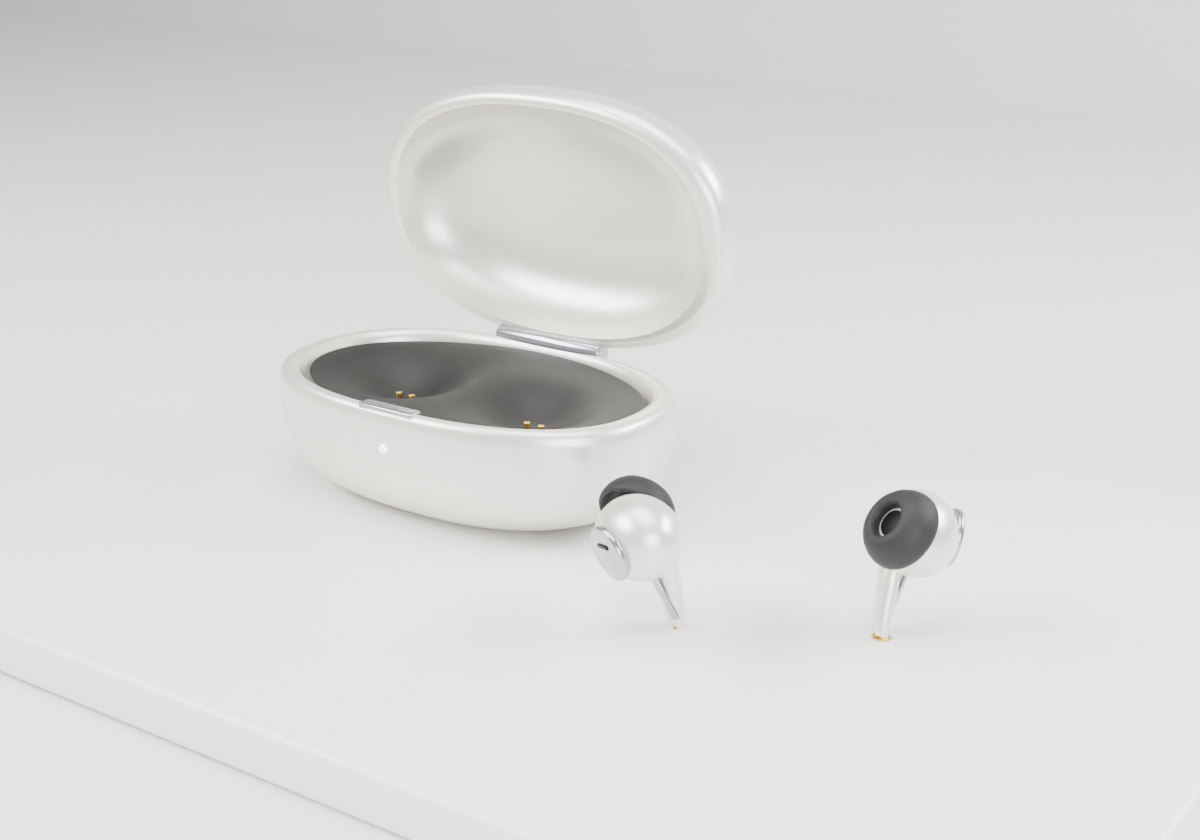
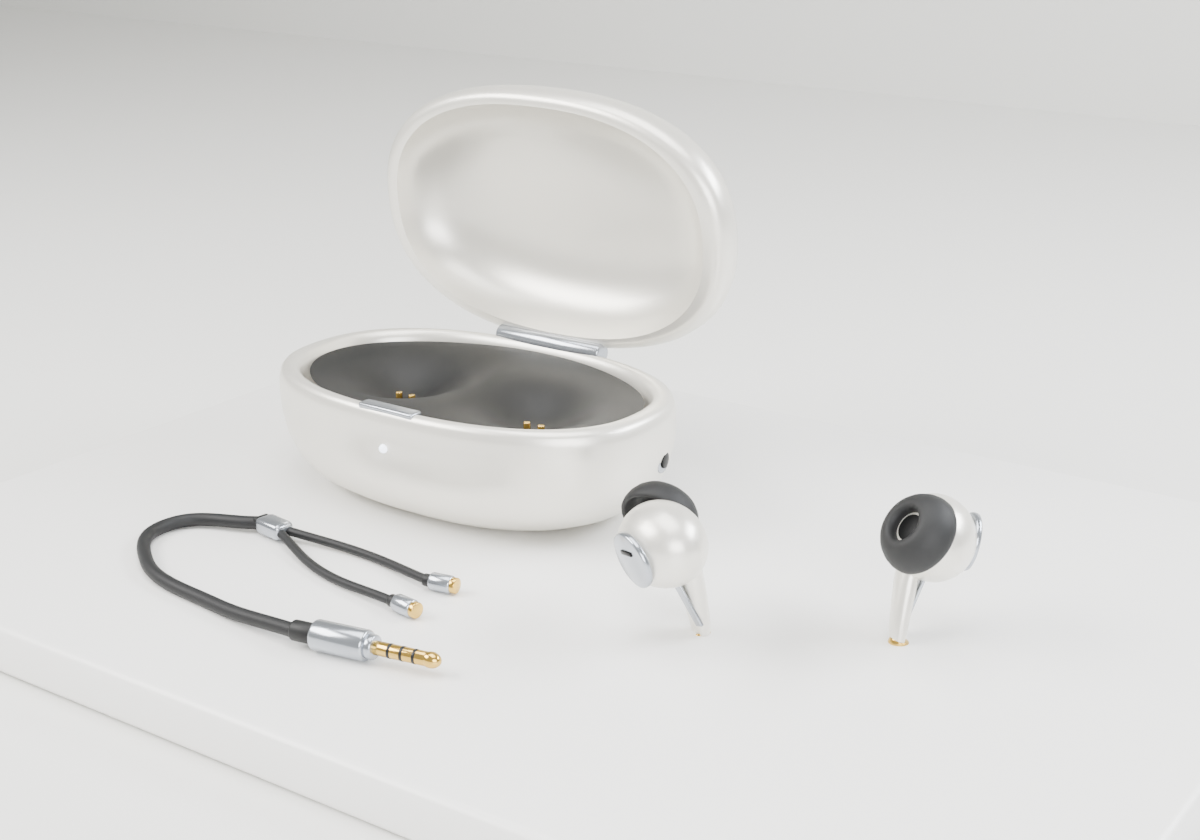
Add wired + wireless AUX support and 3.5 mm AUX cable Blender renders to JBG Tone.
Generated with [Devin](https://devin.ai)

diff --git a/purchase.html b/purchase.html
@@ -94,7 +94,7 @@
             <img class="model-thumb" src="assets/jbg-tone-midnight.png" alt="JBG Tone">
             <span class="model-card-text">
               <span class="model-card-name">JBG Tone</span>
-              <span class="model-card-sub">Premium ANC Earphones</span>
+              <span class="model-card-sub">Wired &amp; Wireless ANC Earphones</span>
               <span class="model-card-price">From US$299</span>
             </span>
           </button>
@@ -220,7 +220,7 @@
 </div>
 <script>
   (function () {
-    var MODELS = {"air": {"name": "JBG Air", "sub": "Professional Mobility", "base": 1999, "spec": "air-specifications.html", "storage": true, "rec": "512 GB", "box": [], "colours": [["Midnight", "#2A2F38", "assets/jbg-air-midnight.png"], ["Starlight", "#D8CFBF", "assets/jbg-air-starlight.png"], ["Silver", "#D4D6D9", "assets/jbg-air-silver.png"], ["Sky Blue", "#A9BFD3", "assets/jbg-air-skyblue.png"]]}, "pro": {"name": "JBG Pro", "sub": "Professional Performance", "base": 2499, "spec": "pro-specifications.html", "storage": true, "rec": "1 TB", "box": [], "colours": [["Space Black", "#333538", "assets/jbg-pro-spaceblack.png"], ["Silver", "#D4D6D9", "assets/jbg-pro-silver.png"], ["Natural Titanium", "#989086", "assets/jbg-pro-naturaltitanium.png"]]}, "play": {"name": "JBG Play", "sub": "Portable Handheld Gaming", "base": 2199, "spec": "play-specifications.html", "storage": true, "rec": "512 GB", "box": [], "colours": [["Midnight", "#2A2F38", "assets/jbg-play-midnight.png"], ["Ultramarine", "#44547E", "assets/jbg-play-ultramarine.png"], ["Crimson", "#8E2430", "assets/jbg-play-crimson.png"]]}, "tone": {"name": "JBG Tone", "sub": "Premium ANC Earphones", "base": 299, "spec": "tone-specifications.html", "storage": false, "rec": "512 GB", "box": [["JBG Tone", "Earphones pair"], ["Charging Case", "Wireless + USB-C"], ["Ear Tips", "3 acoustic sizes"], ["USB-C Cable", "Braided charging"]], "colours": [["Midnight", "#2A2F38", "assets/jbg-tone-midnight.png"], ["Ivory", "#E9E6DD", "assets/jbg-tone-ivory.png"], ["Titanium", "#8A8D92", "assets/jbg-tone-titanium.png"]]}, "feather": {"name": "JBG Feather", "sub": "Ultralight Wireless Mouse", "base": 149, "spec": "feather-specifications.html", "storage": false, "rec": "512 GB", "box": [["JBG Feather", "Ultralight mouse"], ["2.4G Receiver", "8K wireless dongle"], ["USB-C Paracord", "Charge + wired"], ["Travel Pouch", "Protective sleeve"]], "colours": [["Midnight", "#2A2F38", "assets/jbg-feather-midnight.png"], ["Arctic White", "#ECEEF0", "assets/jbg-feather-arcticwhite.png"]]}, "vista": {"name": "JBG Vista", "sub": "Portable 16-inch Display", "base": 449, "spec": "vista-specifications.html", "storage": false, "rec": "512 GB", "box": [["JBG Vista", "16-inch 2.5K display"], ["Protective Case", "Magnetic stand folio"], ["USB-C Cable", "Video + PD power"], ["Mini-HDMI", "Display cable"]], "colours": [["Space Gray", "#6E6F74", "assets/jbg-vista-spacegray.png"], ["Silver", "#D4D6D9", "assets/jbg-vista-silver.png"]]}};
+    var MODELS = {"air": {"name": "JBG Air", "sub": "Professional Mobility", "base": 1999, "spec": "air-specifications.html", "storage": true, "rec": "512 GB", "box": [], "colours": [["Midnight", "#2A2F38", "assets/jbg-air-midnight.png"], ["Starlight", "#D8CFBF", "assets/jbg-air-starlight.png"], ["Silver", "#D4D6D9", "assets/jbg-air-silver.png"], ["Sky Blue", "#A9BFD3", "assets/jbg-air-skyblue.png"]]}, "pro": {"name": "JBG Pro", "sub": "Professional Performance", "base": 2499, "spec": "pro-specifications.html", "storage": true, "rec": "1 TB", "box": [], "colours": [["Space Black", "#333538", "assets/jbg-pro-spaceblack.png"], ["Silver", "#D4D6D9", "assets/jbg-pro-silver.png"], ["Natural Titanium", "#989086", "assets/jbg-pro-naturaltitanium.png"]]}, "play": {"name": "JBG Play", "sub": "Portable Handheld Gaming", "base": 2199, "spec": "play-specifications.html", "storage": true, "rec": "512 GB", "box": [], "colours": [["Midnight", "#2A2F38", "assets/jbg-play-midnight.png"], ["Ultramarine", "#44547E", "assets/jbg-play-ultramarine.png"], ["Crimson", "#8E2430", "assets/jbg-play-crimson.png"]]}, "tone": {"name": "JBG Tone", "sub": "Wired & Wireless ANC Earphones", "base": 299, "spec": "tone-specifications.html", "storage": false, "rec": "512 GB", "box": [["JBG Tone", "Earphones pair"], ["Charging Case", "Wireless + AUX + USB-C"], ["3.5 mm AUX Wire", "Included wired cable"], ["Ear Tips + USB-C", "3 sizes + charge lead"]], "colours": [["Midnight", "#2A2F38", "assets/jbg-tone-midnight.png"], ["Ivory", "#E9E6DD", "assets/jbg-tone-ivory.png"], ["Titanium", "#8A8D92", "assets/jbg-tone-titanium.png"]]}, "feather": {"name": "JBG Feather", "sub": "Ultralight Wireless Mouse", "base": 149, "spec": "feather-specifications.html", "storage": false, "rec": "512 GB", "box": [["JBG Feather", "Ultralight mouse"], ["2.4G Receiver", "8K wireless dongle"], ["USB-C Paracord", "Charge + wired"], ["Travel Pouch", "Protective sleeve"]], "colours": [["Midnight", "#2A2F38", "assets/jbg-feather-midnight.png"], ["Arctic White", "#ECEEF0", "assets/jbg-feather-arcticwhite.png"]]}, "vista": {"name": "JBG Vista", "sub": "Portable 16-inch Display", "base": 449, "spec": "vista-specifications.html", "storage": false, "rec": "512 GB", "box": [["JBG Vista", "16-inch 2.5K display"], ["Protective Case", "Magnetic stand folio"], ["USB-C Cable", "Video + PD power"], ["Mini-HDMI", "Display cable"]], "colours": [["Space Gray", "#6E6F74", "assets/jbg-vista-spacegray.png"], ["Silver", "#D4D6D9", "assets/jbg-vista-silver.png"]]}};
     var STORAGE = [["256 GB", 0, "Included"], ["512 GB", 80, "+US$80"], ["1 TB", 180, "+US$180"], ["2 TB", 380, "+US$380"]];
     var state = { model: 'air', finish: 0, cap: '512 GB' };
     var q = location.search.match(/model=([a-z]+)/i);

diff --git a/tone-specifications.html b/tone-specifications.html
@@ -57,9 +57,9 @@
         </div>
         <div class="hero-grid">
           <div>
-            <span class="eyebrow">Premium ANC Earphones</span>
+            <span class="eyebrow">Wired &amp; Wireless ANC Earphones</span>
             <h1 class="hero-title" style="font-size: clamp(2.4rem, 4.2vw, 3.5rem); margin-bottom: 14px;">JBG Tone</h1>
-            <p class="hero-desc" style="margin-bottom: 20px;">Up to 99% ambient noise reduction — silence, engineered.</p>
+            <p class="hero-desc" style="margin-bottom: 20px;">Up to 99% ambient noise reduction — wireless freedom or zero-latency wired AUX.</p>
             <p style="font-family: var(--font-mono); font-size: 1.05rem; font-weight: 600; margin: 0 0 28px;">
               From US$299 <span style="font-weight: 400; font-size: 0.82rem; color: var(--text-muted);">(Proposed USD Retail)</span>
             </p>
@@ -71,7 +71,7 @@
           <div class="hero-visual-frame" style="background:#ecece7;border-color:#dcdcd6;">
             <img id="productHeroImg" src="assets/jbg-tone-midnight.png" alt="JBG Tone studio industrial design render">
             <div class="visual-caption" style="background:#f7f7f4;color:#4e525a;border-top-color:#dcdcd6;">
-              <span>JBG TONE — TITANIUM &amp; MATTE OBSIDIAN ACOUSTIC CONCEPT</span>
+              <span>JBG TONE — WIRED 3.5 MM AUX + WIRELESS ANC CONCEPT</span>
               <span>PROPOSED TARGET</span>
             </div>
           </div>
@@ -92,12 +92,12 @@
             <span class="stat-label">BATTERY TARGET</span>
           </div>
           <div class="stat-card">
-            <span class="stat-value">IPX5</span>
-            <span class="stat-label">RATING</span>
+            <span class="stat-value">AUX + BT</span>
+            <span class="stat-label">DUAL MODE</span>
           </div>
           <div class="stat-card">
-            <span class="stat-value">BT 5.4</span>
-            <span class="stat-label">CONNECTIVITY</span>
+            <span class="stat-value">IPX5</span>
+            <span class="stat-label">RATING</span>
           </div>
         </div>
       </div>
@@ -126,11 +126,15 @@
               </tr>
               <tr>
                 <th scope="row">Charging</th>
-                <td>USB-C fast charge &amp; Qi wireless charging pebble case</td>
+                <td>USB-C fast charge &amp; Qi wireless charging pebble case with 3.5 mm AUX pass-through</td>
               </tr>
               <tr>
                 <th scope="row">Connectivity</th>
-                <td>Bluetooth 5.4 multipoint with LE Audio support</td>
+                <td>Dual-mode wired &amp; wireless — Bluetooth 5.4 multipoint (LE Audio) + included braided 3.5 mm AUX cable</td>
+              </tr>
+              <tr>
+                <th scope="row">Wired Audio Mode</th>
+                <td>Detachable 3.5 mm TRRS AUX wire with magnetic stem docks for lossless, zero-latency laptop, flight, and handheld listening</td>
               </tr>
               <tr>
                 <th scope="row">Microphones</th>
@@ -142,7 +146,7 @@
               </tr>
               <tr>
                 <th scope="row">Design Focus</th>
-                <td>Executive travel, focused deep work, and studio-grade voice calls</td>
+                <td>Executive travel, focused deep work, studio calls, and wired/wireless flexibility</td>
               </tr>
             </tbody>
           </table>
@@ -189,15 +193,15 @@
           </div>
           <div class="config-card static-box">
             <span class="config-title">Charging Case</span>
-            <span class="config-sub">Wireless + USB-C</span>
+            <span class="config-sub">Wireless + AUX + USB-C</span>
           </div>
           <div class="config-card static-box">
-            <span class="config-title">Ear Tips</span>
-            <span class="config-sub">3 acoustic sizes</span>
+            <span class="config-title">3.5 mm AUX Wire</span>
+            <span class="config-sub">Included wired cable</span>
           </div>
           <div class="config-card static-box">
-            <span class="config-title">USB-C Cable</span>
-            <span class="config-sub">Braided charging</span>
+            <span class="config-title">Ear Tips + USB-C</span>
+            <span class="config-sub">3 sizes + charge lead</span>
           </div>
         </div>
         <p class="spec-disclaimer">All specifications are development targets; up to 99% ANC reduction is an acoustic engineering target subject to chamber validation.</p>

diff --git a/products.html b/products.html
@@ -176,21 +176,21 @@
           <article class="product-card" data-categories="accessories mobility">
             <a href="tone-specifications.html" class="product-card-media">
               <span class="card-category-tag">Accessories &middot; Audio</span>
-              <img src="assets/jbg-tone.png" alt="JBG Tone ANC wireless earphones and charging case studio render">
+              <img src="assets/jbg-tone.png" alt="JBG Tone wired and wireless ANC earphones, charging case, and included 3.5 mm AUX cable studio render">
             </a>
             <div class="product-card-body">
               <div class="product-card-title-row">
                 <h3>JBG Tone</h3>
                 <span class="badge-proposed">Proposed</span>
               </div>
-              <div class="product-card-sub">Adaptive ANC Wireless Earphones</div>
+              <div class="product-card-sub">Hybrid Wired &amp; Wireless ANC Earphones</div>
               <p class="product-card-desc">
-                Engineered for focused work in transit and open offices, targeting up to 99% ambient noise reduction, hybrid dual drivers, and 32-hour total wireless case battery.
+                Engineered for focused work in transit and open offices, supporting both Bluetooth 5.4 wireless and zero-latency wired listening via the included 3.5 mm AUX cable, with up to 99% ANC and 32-hour case battery.
               </p>
               <div class="product-card-specs-mini">
                 <span class="spec-chip">Up to 99% ANC</span>
+                <span class="spec-chip">Wired AUX + BT 5.4</span>
                 <span class="spec-chip">8h + 32h Case</span>
-                <span class="spec-chip">BT 5.4 Multipoint</span>
               </div>
               <div class="dot-row" aria-label="Available finishes">
                 <span class="dot" style="background:#2A2F38" title="Midnight"></span>
